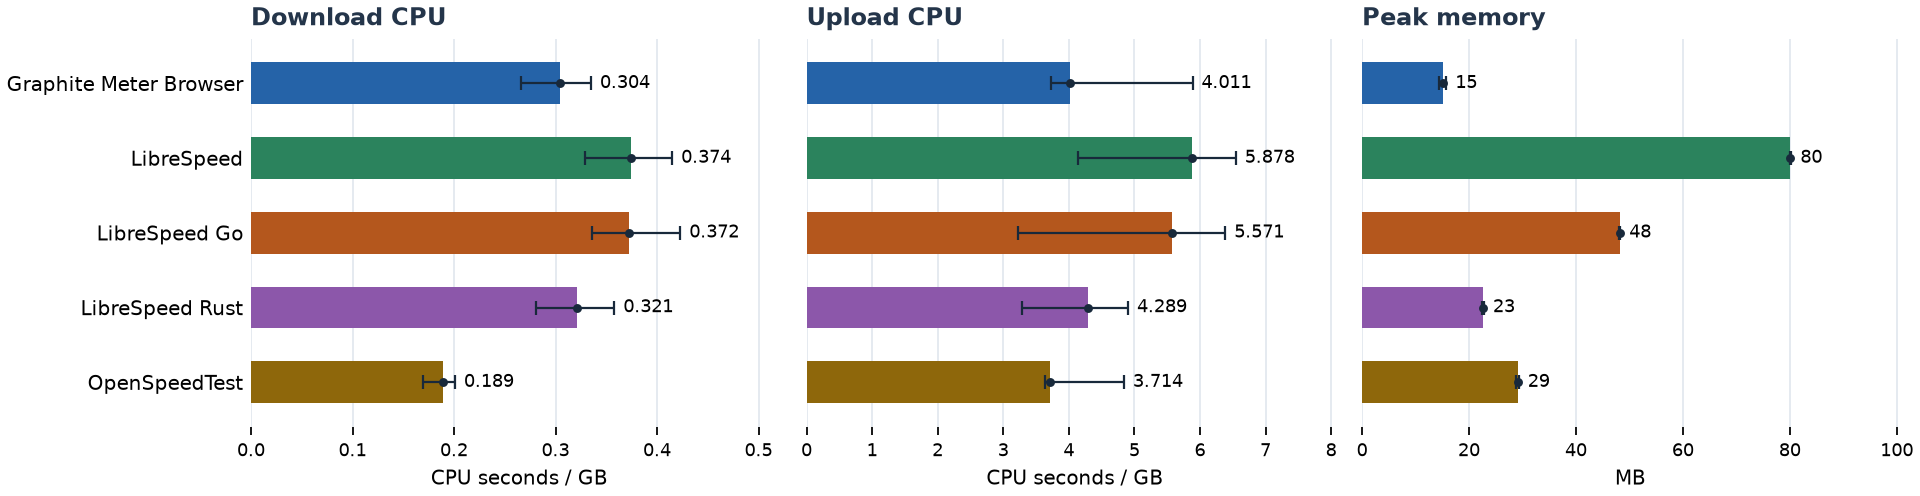
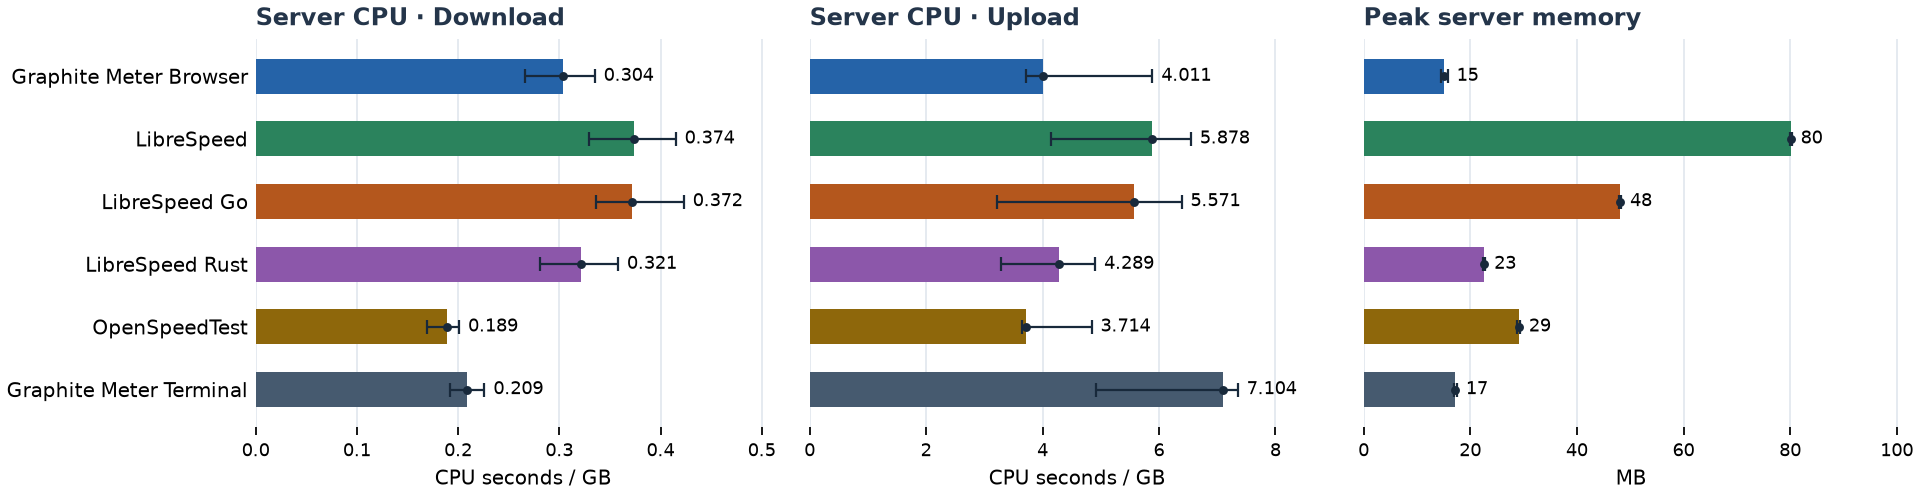
Include the terminal client in all headline charts

diff --git a/bench/summarize.js b/bench/summarize.js
@@ -16,7 +16,7 @@ const { manifests, runs, noisy } = readResults(dirs, { withJob: Boolean(process.
 if (process.env.SB_REPORT_DATA) {
   const measurements = runs.filter(({ scenario, tool, browser, reported }) => {
     if (reported.outcome !== "complete") return false;
-    if (scenario === "accuracy-1000") return browser === "chrome" || browser === "firefox" || tool === "iperf3";
+    if (scenario === "accuracy-1000") return browser === "chrome" || browser === "firefox" || tool === "iperf3" || tool === "graphite-meter-client";
     return scenario === "unshaped" && (tool === "graphite-meter-client" || tool === "iperf3");
   });
   writeFileSync(process.env.SB_REPORT_DATA, JSON.stringify(measurements));

diff --git a/bench/report.py b/bench/report.py
@@ -83,9 +83,12 @@ browser_tools = {
     "LibreSpeed Rust backend": ("LibreSpeed Rust", "#8c57aa"),
     "OpenSpeedTest": ("OpenSpeedTest", "#8e670b"),
 }
+terminal_tool = "Graphite Meter terminal client"
+terminal_series = ("Graphite Meter Terminal", "#465a6f")
+headline_tools = {**browser_tools, terminal_tool: terminal_series}
 reference_tool = "iperf3 (reference)"
 reference_series = ("iperf3 reference", "#5b6570")
-shaped_tools = {**browser_tools, reference_tool: reference_series}
+shaped_tools = {**headline_tools, reference_tool: reference_series}
 groups = tables(summary, "## ")
 
 
@@ -98,7 +101,7 @@ def display(label):
 
 
 def chrome_key(label):
-    return label if label == reference_tool else f"{label}, chrome"
+    return label if label in (reference_tool, terminal_tool) else f"{label}, chrome"
 
 
 selected = [
@@ -120,7 +123,8 @@ for row in measurements:
     ref = baseline.get((row["job"], row["rep"]))
     if row["scenario"] != "accuracy-1000" or tool == "iperf3" or ref is None:
         continue
-    label = manifests[0]["pins"]["tools"][tool]["name"]
+    pins = manifests[0]["pins"]
+    label = (pins["tools"].get(tool) or pins["clients"][tool])["name"]
     for field in ("downloadMbit", "uploadMbit"):
         value = row["reported"].get(field)
         if value is not None and ref.get(field) and ref[field] > 0:
@@ -131,16 +135,16 @@ for row, browser in enumerate(("chrome", "firefox")):
     for col, (direction, field) in enumerate((("Download", "downloadMbit"), ("Upload", "uploadMbit"))):
         ax = axes[row, col]
         ax.axvline(0, color="#536475", linewidth=1)
-        for pos, (label, (_, color)) in enumerate(browser_tools.items()):
-            values = paired_rates[label, browser, field]
+        for pos, (label, (_, color)) in enumerate(headline_tools.items()):
+            values = paired_rates[label, None if label == terminal_tool else browser, field]
             if not values:
                 continue
             low, _, high = quantiles(values, n=4, method="inclusive") if len(values) > 1 else values * 3
             ax.scatter(values, [pos] * len(values), color=color, alpha=.20, s=12)
             ax.hlines(pos, low, high, color=color, linewidth=3)
             ax.scatter(median(values), pos, color=color, edgecolor="white", linewidth=.6, s=45, zorder=4)
-        ax.set_yticks(range(len(browser_tools)), [name for name, _ in browser_tools.values()])
-        ax.set_ylim(len(browser_tools) - .45, -.55)
+        ax.set_yticks(range(len(headline_tools)), [name for name, _ in headline_tools.values()])
+        ax.set_ylim(len(headline_tools) - .45, -.55)
         ax.set_title(f"{browser.capitalize()} · {direction}", loc="left", fontsize=11, weight="bold", color="#24354a")
         ax.set_xlabel("Difference from same-pass iperf3 (%)", fontsize=9)
         ax.tick_params(axis="x", labelsize=8, labelbottom=True)
@@ -164,7 +168,7 @@ def speed(row, i, divisor=1):
     precision = 2 if divisor != 1 else 1
     return f"{value/divisor:,.{precision}f}" if math.isfinite(value) else "—"
 def pair(rows, label, d=2, u=4, divisor=1):
-    return f"{speed(rows[label], d, divisor)} / {speed(rows[label], u, divisor)}"
+    return f"{speed(rows[label], d, divisor)} / {speed(rows[label], u, divisor)}" if label in rows else "—"
 report_date = datetime.fromisoformat(date).strftime("%-d %B %Y")
 version_line = summary.splitlines()[1]
 historical = ""
@@ -177,13 +181,13 @@ intro = f"""## Latest GitHub runner results
 
 {version_line}
 
-### Browser throughput
+### Shaped throughput
 
-Download / upload medians for each browser tool in Chrome using its default transport. **Graphite Meter Browser**
+Download / upload medians for default Chrome and native terminal tests. **Graphite Meter Browser**
 uses streaming HTTP/1.1. The 1 Gbit/s path tests reporting accuracy. The 10 Gbit/s and 1% packet-loss paths show
 how much traffic each tool moved under those conditions. Connection counts can differ between tools.
 
-| Browser tool | 1 Gbit/s link, Mbit/s | 10 Gbit/s link, Gbit/s | 100 Mbit/s with 1% loss, Mbit/s |
+| Tool or client | 1 Gbit/s link, Mbit/s | 10 Gbit/s link, Gbit/s | 100 Mbit/s with 1% loss, Mbit/s |
 | --- | ---: | ---: | ---: |
 """
 loss = groups[selected[2][0]]
@@ -197,7 +201,13 @@ intro += f"""
 
 Each faint dot is one tool run paired with iperf3 on the same VM, scenario, and pass. The large dot is the median
 paired difference. The line spans the 25th to 75th percentile. Zero matches iperf3. Positive values mean the tool
-displayed a higher rate. Each VM contributes two passes, and the intervals describe the observed spread.
+displayed a higher rate. Each VM contributes two passes. Both browser rows show the same native terminal runs for comparison.
+
+### Terminal performance
+
+Graphite Meter Terminal uses the native client. The charts show its results alongside the five browser tools, and
+the uncapped table also includes LibreSpeed CLI and iperf3. Server CPU refers to the server container. The full
+uncapped tables report browser CPU separately. Native client CPU is unmeasured.
 
 ### Latency and alternate transports
 
@@ -223,10 +233,11 @@ for result in measurements:
     tool = result["tool"]
     if result["scenario"] == "accuracy-1000" and tool == "openspeedtest":
         openspeed.append(result)
-    if result["scenario"] == "accuracy-1000" and result["browser"] == "chrome" and tool != "iperf3":
+    if result["scenario"] == "accuracy-1000" and (result["browser"] == "chrome" or tool == "graphite-meter-client"):
         peak = result.get("serverMemoryPeakBytes")
         if peak is not None:
-            name = manifests[0]["pins"]["tools"][tool]["name"]
+            pins = manifests[0]["pins"]
+            name = (pins["tools"].get(tool) or pins["clients"][tool])["name"]
             memory.setdefault(name, []).append(peak / 1e6)
     elif result["scenario"] == "unshaped" and tool in paired:
         measurement = result["reported"]
@@ -235,12 +246,12 @@ for result in measurements:
 
 fig, axes = plt.subplots(1, 3, figsize=(12, 3.1), layout="constrained")
 for ax, (title, field, unit) in zip(axes, (
-    ("Download CPU", 1, "CPU seconds / GB"),
-    ("Upload CPU", 2, "CPU seconds / GB"),
-    ("Peak memory", None, "MB"),
+    ("Server CPU · Download", 1, "CPU seconds / GB"),
+    ("Server CPU · Upload", 2, "CPU seconds / GB"),
+    ("Peak server memory", None, "MB"),
 ), strict=True):
     maximum = 0
-    for pos, (label, (_, color)) in enumerate(browser_tools.items()):
+    for pos, (label, (_, color)) in enumerate(headline_tools.items()):
         key = chrome_key(label)
         if field is None:
             values = memory.get(label, [])
@@ -259,8 +270,8 @@ for ax, (title, field, unit) in zip(axes, (
                     fmt="o", color="#18293b", markersize=3, capsize=3, lw=1)
         ax.annotate(f"{center:.0f}" if field is None else f"{center:.3f}",
                     (high, pos), xytext=(4, 0), textcoords="offset points", va="center", fontsize=8)
-    ax.set_yticks(range(len(browser_tools)), [name for name, _ in browser_tools.values()] if field == 1 else [])
-    ax.set_ylim(len(browser_tools) - .4, -.6)
+    ax.set_yticks(range(len(headline_tools)), [name for name, _ in headline_tools.values()] if field == 1 else [])
+    ax.set_ylim(len(headline_tools) - .4, -.6)
     ax.set_xlim(0, maximum * 1.25 if maximum else 1)
     ax.set_title(title, loc="left", fontsize=11, weight="bold", color="#24354a")
     ax.set_xlabel(unit, fontsize=9)
@@ -283,24 +294,24 @@ def gbit(part):
 
 load = f'''### Server load at 1 Gbit/s
 
-These default Chrome tests use the same shaped link. CPU seconds per GB measure server container work per GB counted
+The browser and terminal tests use the same shaped link. CPU seconds per GB measure server container work per GB counted
 on its interface during each phase. Memory is the median of each run’s peak container memory.
 
 ![Server download CPU, upload CPU, and peak memory on the same 1 Gbit/s path]({report}/server-load.png)
 
 Bars show medians. Whiskers show the middle half of observed runs. Each metric uses its own scale.
 
-| Browser tool | Download / upload, Mbit/s | Download CPU, s/GB | Upload CPU, s/GB | Peak memory, MB |
+| Tool or client | Download / upload, Mbit/s | Server download CPU, s/GB | Server upload CPU, s/GB | Peak server memory, MB |
 | --- | ---: | ---: | ---: | ---: |
 '''
-for label in browser_tools:
+for label in headline_tools:
     key = chrome_key(label)
     down, up = (first(plain[key][i]) for i in (2, 4))
     cpu_down, cpu_up = (first(value) for value in shaped_cpu.get(key, ["", "n/a", "n/a"])[1:3])
     peak = f'{median(memory[label]):.0f}' if label in memory else '—'
     load += f'| {display(label)} | {down} / {up} | {cpu_down} | {cpu_up} | {peak} |\n'
 
-chart = f'![Uncapped download and upload, with separate panels for Chrome and terminal clients]({report}/uncapped.png)'
+chart = f'![Uncapped download and upload, for five Chrome tools and Graphite Meter Terminal]({report}/uncapped.png)'
 load += f'''
 ### Uncapped throughput
 
@@ -314,7 +325,7 @@ windows, and loaded latency enabled. The full tables include the separately meas
 {chart}
 
 Bars show the median. Whiskers span the 25th to 75th percentile of repeated runs for the same setup.
-The browser and terminal panels use different scales.
+The browser rows use default Chrome settings. The terminal row uses the native client.
 
 | Browser tool | Chrome down / up, Gbit/s | Firefox down / up, Gbit/s | Chrome server CPU, s/GB | Chrome server peak, MB |
 | --- | ---: | ---: | ---: | ---: |
@@ -342,41 +353,33 @@ download bytes and time at the client and upload bytes and time at the server.
 '''
 load += f'\n[Download and upload CPU breakdown for all scenarios and transports]({report}/server-cpu.md)\n\n'
 (report / 'server-cpu.md').write_text(f'# Server CPU by phase, {date}\n\n[Full benchmark report](README.md)\n\n' + phases.split('\n\n', 1)[1])
-series = [
-    ("Browser · Chrome", [(chrome_key(label), *spec) for label, spec in browser_tools.items()]),
-    ("Terminal", [
-        ("Graphite Meter terminal client", display("Graphite Meter terminal client"), browser_tools["Graphite Meter"][1]),
-        ("LibreSpeed CLI", "LibreSpeed CLI", browser_tools["LibreSpeed"][1]),
-        (reference_tool, *reference_series),
-    ]),
-]
-fig, axes = plt.subplots(2, 2, figsize=(12, 5.8), height_ratios=[5, 3], layout='constrained')
-for idx, (client, tools) in enumerate(series):
-    highs = (float(raw.split()[-1].rstrip("]")) for key, _, _ in tools
-             for raw in unshaped[key][1:3] if raw != "n/a")
-    interval_limit = max(highs, default=1000) / 1000
-    for direction, field in enumerate(('Download', 'Upload')):
-        ax = axes[idx, direction]
-        for position, (key, name, color) in enumerate(tools):
-            raw = unshaped[key][direction + 1]
-            if raw == 'n/a':
-                ax.text(0, position, 'No completed runs', va='center', color='#253548', fontsize=8)
-                continue
-            med, low, high = (float(v) / 1000 for v in re.findall(r'[\d.]+', raw))
-            ax.barh(position, med, color=color, height=.58)
-            ax.errorbar(med, position, xerr=[[med - low], [high - med]], fmt='o', color='#18293b', markersize=3, capsize=3, lw=1, zorder=3)
-            ax.annotate(f'{med:.2f}', (high, position), xytext=(5, 0), textcoords='offset points', va='center', color='#253548', fontsize=9)
-        ax.set_yticks(range(len(tools)), [name for _, name, _ in tools])
-        ax.set_ylim(len(tools) - .5, -.5)
-        ax.set_xlim(0, interval_limit * 1.14)
-        ax.set_title(f'{client} / {field}', loc='left', fontsize=11, weight='bold', color='#24354a')
-        ax.tick_params(axis='y', labelsize=9, length=0)
-        ax.tick_params(axis='x', labelsize=8)
-        ax.grid(axis='x', color='#e2e8ef')
-        ax.set_axisbelow(True)
-        ax.set_xlabel('Gbit/s', fontsize=9)
-        for spine in ax.spines.values():
-            spine.set_visible(False)
+tools = [(chrome_key(label), *spec) for label, spec in headline_tools.items()]
+fig, axes = plt.subplots(1, 2, figsize=(11.5, 3.6), layout="constrained")
+highs = (float(raw.split()[-1].rstrip("]")) for key, _, _ in tools
+         for raw in unshaped[key][1:3] if raw != "n/a")
+interval_limit = max(highs, default=1000) / 1000
+for direction, field in enumerate(('Download', 'Upload')):
+    ax = axes[direction]
+    for position, (key, name, color) in enumerate(tools):
+        raw = unshaped[key][direction + 1]
+        if raw == 'n/a':
+            ax.text(0, position, 'No completed runs', va='center', color='#253548', fontsize=8)
+            continue
+        med, low, high = (float(v) / 1000 for v in re.findall(r'[\d.]+', raw))
+        ax.barh(position, med, color=color, height=.58)
+        ax.errorbar(med, position, xerr=[[med - low], [high - med]], fmt='o', color='#18293b', markersize=3, capsize=3, lw=1, zorder=3)
+        ax.annotate(f'{med:.2f}', (high, position), xytext=(5, 0), textcoords='offset points', va='center', color='#253548', fontsize=9)
+    ax.set_yticks(range(len(tools)), [name for _, name, _ in tools])
+    ax.set_ylim(len(tools) - .5, -.5)
+    ax.set_xlim(0, interval_limit * 1.14)
+    ax.set_title(field, loc='left', fontsize=11, weight='bold', color='#24354a')
+    ax.tick_params(axis='y', labelsize=9, length=0)
+    ax.tick_params(axis='x', labelsize=8)
+    ax.grid(axis='x', color='#e2e8ef')
+    ax.set_axisbelow(True)
+    ax.set_xlabel('Gbit/s', fontsize=9)
+    for spine in ax.spines.values():
+        spine.set_visible(False)
 fig.savefig(report / 'uncapped.png', dpi=150)
 
 check = """### Independent upload check

diff --git a/README.md b/README.md
@@ -8,7 +8,7 @@ reference that does not come from any of the tools.
 one of the tools compared. The harness and adapters are public. Each hosted report links to its run for raw
 measurements and generated configs while GitHub retains the artifacts. Corrections are welcome as issues.
 
-[Latest runner report](#latest-github-runner-results) · [Server load](#server-load-at-1-gbits) ·
+[Latest runner report](#latest-github-runner-results) · [Server load](#server-load-at-1-gbits) · [Terminal performance](#terminal-performance) ·
 [Uncapped throughput](#uncapped-throughput) · [Method](#how-it-works) ·
 [Desktop results](#results-desktop-night-of-18-to-19-october-2026) · [Run it](#run-it)
 
@@ -18,19 +18,20 @@ measurements and generated configs while GitHub retains the artifacts. Correctio
 
 Tools: Graphite Meter 0.13.4, LibreSpeed 6.3.1, LibreSpeed Go backend 1.1.6, LibreSpeed Rust backend 1.4.0, OpenSpeedTest 2.5.4, Graphite Meter terminal client 0.13.4, LibreSpeed CLI 1.0.14. Browsers: chrome 156.0.8078.47, firefox 158.0.1.
 
-### Browser throughput
+### Shaped throughput
 
-Download / upload medians for each browser tool in Chrome using its default transport. **Graphite Meter Browser**
+Download / upload medians for default Chrome and native terminal tests. **Graphite Meter Browser**
 uses streaming HTTP/1.1. The 1 Gbit/s path tests reporting accuracy. The 10 Gbit/s and 1% packet-loss paths show
 how much traffic each tool moved under those conditions. Connection counts can differ between tools.
 
-| Browser tool | 1 Gbit/s link, Mbit/s | 10 Gbit/s link, Gbit/s | 100 Mbit/s with 1% loss, Mbit/s |
+| Tool or client | 1 Gbit/s link, Mbit/s | 10 Gbit/s link, Gbit/s | 100 Mbit/s with 1% loss, Mbit/s |
 | --- | ---: | ---: | ---: |
 | Graphite Meter Browser | 956.1 / 952.7 | 9.56 / 4.26 | 13.2 / 14.1 |
 | LibreSpeed | 956.5 / 944.5 | 9.27 / 3.27 | 16.8 / 9.7 |
 | LibreSpeed Go backend | 955.0 / 950.5 | 9.33 / 3.24 | 16.6 / 9.6 |
 | LibreSpeed Rust backend | 955.0 / 948.5 | 9.28 / 3.24 | 16.6 / 9.4 |
 | OpenSpeedTest | 952.0 / 953.8 | 9.46 / 3.38 | 19.3 / 22.4 |
+| Graphite Meter Terminal | 956.4 / 956.4 | 9.56 / 9.56 | 19.7 / 19.6 |
 | iperf3 (reference) | 956.4 / 956.3 | 9.56 / 9.56 | 12.9 / 13.1 |
 
 #### Accuracy on the shaped 1 Gbit/s link
@@ -39,24 +40,38 @@ how much traffic each tool moved under those conditions. Connection counts can d
 
 Each faint dot is one tool run paired with iperf3 on the same VM, scenario, and pass. The large dot is the median
 paired difference. The line spans the 25th to 75th percentile. Zero matches iperf3. Positive values mean the tool
-displayed a higher rate. Each VM contributes two passes, and the intervals describe the observed spread.
+displayed a higher rate. Each VM contributes two passes. Both browser rows show the same native terminal runs for comparison.
+
+### Compare for your setup
+
+- **Ordinary links.** The 1 Gbit/s accuracy chart shows how close each browser test got to its paired reference.
+- **High-throughput links.** Compare the shaped 10 Gbit/s numbers first, then use the uncapped results to see how each
+  client performed on these VMs.
+- **Resource-limited servers.** Compare peak memory and upload CPU at 1 Gbit/s. The testbed gives every server one vCPU.
+
+### Terminal performance
+
+Graphite Meter Terminal uses the native client. The charts show its results alongside the five browser tools, and
+the uncapped table also includes LibreSpeed CLI and iperf3. Server CPU refers to the server container. The full
+uncapped tables report browser CPU separately. Native client CPU is unmeasured.
 
 ### Server load at 1 Gbit/s
 
-These default Chrome tests use the same shaped link. CPU seconds per GB measure server container work per GB counted
+The browser and terminal tests use the same shaped link. CPU seconds per GB measure server container work per GB counted
 on its interface during each phase. Memory is the median of each run’s peak container memory.
 
 ![Server download CPU, upload CPU, and peak memory on the same 1 Gbit/s path](results/2026-11-01-ci-run-41295946781/server-load.png)
 
 Bars show medians. Whiskers show the middle half of observed runs. Each metric uses its own scale.
 
-| Browser tool | Download / upload, Mbit/s | Download CPU, s/GB | Upload CPU, s/GB | Peak memory, MB |
+| Tool or client | Download / upload, Mbit/s | Server download CPU, s/GB | Server upload CPU, s/GB | Peak server memory, MB |
 | --- | ---: | ---: | ---: | ---: |
 | Graphite Meter Browser | 956.1 / 952.7 | 0.304 | 4.011 | 15 |
 | LibreSpeed | 956.5 / 944.5 | 0.374 | 5.878 | 80 |
 | LibreSpeed Go backend | 955.0 / 950.5 | 0.372 | 5.571 | 48 |
 | LibreSpeed Rust backend | 955.0 / 948.5 | 0.321 | 4.289 | 23 |
 | OpenSpeedTest | 952.0 / 953.8 | 0.189 | 3.714 | 29 |
+| Graphite Meter Terminal | 956.4 / 956.4 | 0.209 | 7.104 | 17 |
 
 ### Uncapped throughput
 
@@ -67,10 +82,10 @@ machines and concurrent tests. **Graphite Meter Terminal** runs `graphite-meter-
 --report`. The default path uses streaming HTTP/1.1 with six lanes in each direction, 10-second download and upload
 windows, and loaded latency enabled. The full tables include the separately measured transport variants.
 
-![Uncapped download and upload, with separate panels for Chrome and terminal clients](results/2026-11-01-ci-run-41295946781/uncapped.png)
+![Uncapped download and upload, for five Chrome tools and Graphite Meter Terminal](results/2026-11-01-ci-run-41295946781/uncapped.png)
 
 Bars show the median. Whiskers span the 25th to 75th percentile of repeated runs for the same setup.
-The browser and terminal panels use different scales.
+The browser rows use default Chrome settings. The terminal row uses the native client.
 
 | Browser tool | Chrome down / up, Gbit/s | Firefox down / up, Gbit/s | Chrome server CPU, s/GB | Chrome server peak, MB |
 | --- | ---: | ---: | ---: | ---: |
@@ -104,13 +119,6 @@ difference from the displayed rate is a diagnostic rather than an exact payload 
 | --- | ---: | ---: | ---: | ---: |
 | Chrome | 953.8 | 970.3 | — | 9/30 |
 | Firefox | 950.0 | 965.8 | — | 2/30 |
-
-### Compare for your setup
-
-- **Ordinary links.** The 1 Gbit/s accuracy chart shows how close each browser test got to its paired reference.
-- **High-throughput links.** Compare the shaped 10 Gbit/s numbers first, then use the uncapped results to see how each
-  client performed on these VMs.
-- **Resource-limited servers.** Compare peak memory and upload CPU at 1 Gbit/s. The testbed gives every server one vCPU.
 
 ### Latency and alternate transports
 
@@ -212,7 +220,7 @@ Browsers: Chrome for Testing and Firefox release builds, fresh profile per run, 
 | Latency under load | Base RTT plus the bottleneck FIFO's queue delay, sampled on the shaper every 100 ms (FIFO scenarios only; under `fq_codel` a probe flow skips the bulk queue) |
 | Independent transfer rate | Passive server interface byte counter over sustained intervals for each direction. It includes transport overhead and is separate from the app’s own reporting window. Skipped for competing traffic, where another flow shares that interface. |
 | Server CPU and memory | The server container's cgroup: CPU seconds per GB moved, peak memory; each run also splits that CPU by 100 ms samples into download, upload and other phases, which `bench/phases.js` tables |
-| Browser CPU | CPU seconds per GB of the browser's process tree |
+| Browser CPU (client side) | CPU seconds per GB of the browser's process tree, reported in the full uncapped tables. Native client CPU is not collected. |
 
 Scenarios are in [`scenarios.json`](scenarios.json): 100 Mbit/s and 1 Gbit/s at 20 ms RTT; 10, 25 and 40 Gbit/s at
 2 ms (25 and 40 only on hosts with at least 8 CPUs); 300/30 Mbit/s behind a 200 ms FIFO; 1 % and 0.1 % loss at 40 ms;
